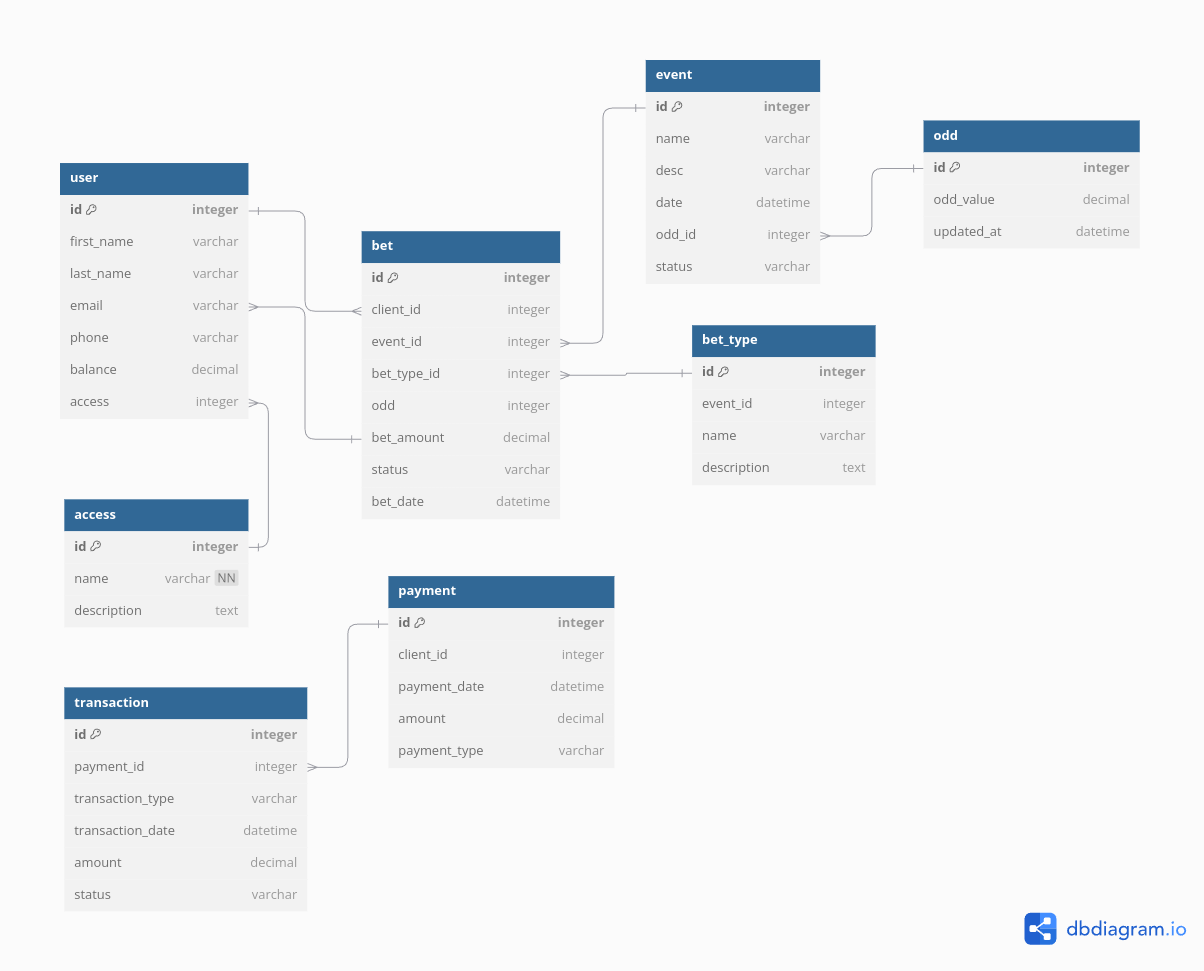
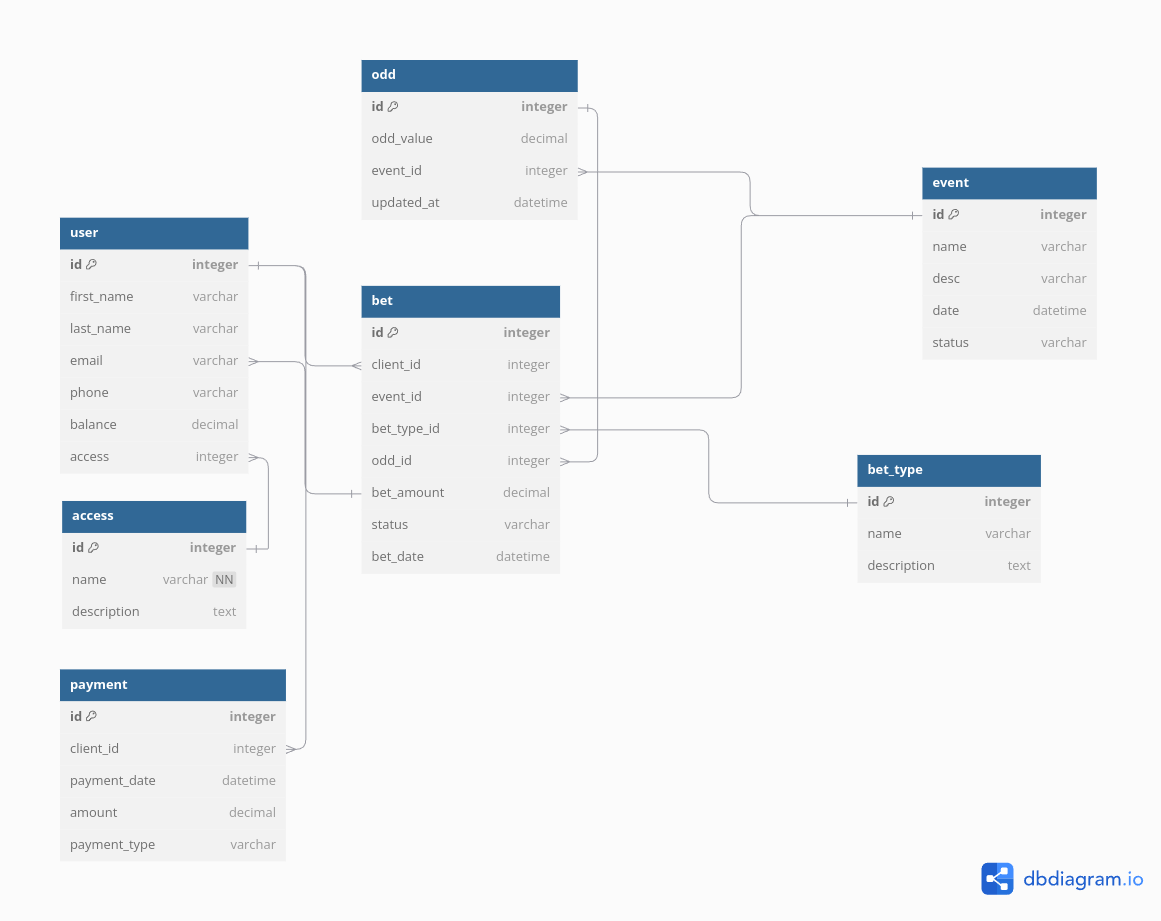
Add create table to migrations. Update readme

diff --git a/db/migrations/migrate.go b/db/migrations/migrate.go
@@ -16,13 +16,16 @@ func main() {
 	dbConn := db.ConnectDB() // Получаем соединение с базой данных
 	defer dbConn.Close()     // Закрываем соединение после завершения работы
 
-	// Миграция для таблицы users
+	// Миграция для таблицы user
 	_, err := dbConn.Exec(`
 	CREATE TABLE IF NOT EXISTS users (
 		id SERIAL PRIMARY KEY,
-		username VARCHAR(255) NOT NULL UNIQUE,
-		password VARCHAR(255) NOT NULL,
-		created_at TIMESTAMP DEFAULT NOW()
+		first_name VARCHAR(255),
+		last_name VARCHAR(255),
+		email VARCHAR(255) NOT NULL UNIQUE,
+		phone VARCHAR(50),
+		balance DECIMAL DEFAULT 0,
+		access INTEGER REFERENCES access(id)
 	);
 	`)
 	if err != nil {
@@ -36,39 +39,12 @@ func main() {
 		name VARCHAR(255) NOT NULL,
 		description TEXT,
 		date TIMESTAMP NOT NULL,
-		status VARCHAR(50)
+		status VARCHAR(50) -- e.g., pending, live, finished
 	);
 	`)
 	if err != nil {
 		log.Fatal("Migration for event failed:", err)
 	}
-
-	// Функция триггера для обновления статуса события
-	_, err = dbConn.Exec(`
-	CREATE OR REPLACE FUNCTION update_event_status()
-	RETURNS TRIGGER AS $update_event_status$
-	BEGIN
-		IF NEW.date < NOW() THEN
-			UPDATE event SET status = 'end' WHERE id = NEW.id;
-		END IF;
-		RETURN NEW;
-	END;
-	$update_event_status$ LANGUAGE plpgsql;
-	`)
-	if err != nil {
-		log.Fatal("Creating trigger function failed:", err)
-	}
-
-	// Создание триггера для обновления статуса события
-	// _, err = dbConn.Exec(`
-	// CREATE TRIGGER update_event_status
-	// AFTER UPDATE ON event
-	// FOR EACH ROW
-	// EXECUTE FUNCTION update_event_status();
-	// `)
-	// if err != nil {
-	// 	log.Fatal("Creating trigger failed:", err)
-	// }
 
 	// Миграция для таблицы access
 	_, err = dbConn.Exec(`
@@ -90,6 +66,74 @@ func main() {
 	`)
 	if err != nil {
 		log.Fatal("Inserting default access levels failed:", err)
+	}
+
+	// Миграция для таблицы bet_type
+	_, err = dbConn.Exec(`
+	CREATE TABLE IF NOT EXISTS bet_type (
+		id SERIAL PRIMARY KEY,
+		name VARCHAR(255), -- e.g., win, draw, lose, total over/under
+		description TEXT -- Description of the bet type
+	);
+	`)
+	if err != nil {
+		log.Fatal("Migration for bet_type failed:", err)
+	}
+
+	// Добавление пяти записей в bet_type
+	_, err = dbConn.Exec(`
+	INSERT INTO bet_type (name, description) VALUES
+	('win', 'Bet on the team to win'),
+	('draw', 'Bet on the match to end in a draw'),
+	('lose', 'Bet on the team to lose'),
+	('total over', 'Bet on the total score to be over a certain number'),
+	('total under', 'Bet on the total score to be under a certain number')
+	`)
+	if err != nil {
+		log.Fatal("Inserting default bet types failed:", err)
+	}
+	// Миграция для таблицы odd
+	_, err = dbConn.Exec(`
+	CREATE TABLE IF NOT EXISTS odd (
+		id SERIAL PRIMARY KEY,
+		odd_value DECIMAL, -- Value of the odd for the event
+		event_id INTEGER REFERENCES event(id),
+		updated_at TIMESTAMP -- When the odd were last updated
+	);
+	`)
+	if err != nil {
+		log.Fatal("Migration for odd failed:", err)
+	}
+
+	// Миграция для таблицы bet
+	_, err = dbConn.Exec(`
+	CREATE TABLE IF NOT EXISTS bet (
+		id SERIAL PRIMARY KEY,
+		client_id INTEGER REFERENCES users(id), -- Many bet to one client
+		event_id INTEGER REFERENCES event(id), -- Many bet to one event
+		bet_type_id INTEGER REFERENCES bet_type(id), -- Many bet to one bet type
+		odd_id INTEGER REFERENCES odd(id), 
+		bet_amount DECIMAL,
+		status VARCHAR(50), -- e.g., pending, won, lost
+		bet_date TIMESTAMP
+	);
+	`)
+	if err != nil {
+		log.Fatal("Migration for bet failed:", err)
+	}
+
+	// Миграция для таблицы payment
+	_, err = dbConn.Exec(`
+	CREATE TABLE IF NOT EXISTS payment (
+		id SERIAL PRIMARY KEY,
+		client_id INTEGER REFERENCES users(id),
+		payment_date TIMESTAMP,
+		amount DECIMAL,
+		payment_type VARCHAR(50) -- e.g., deposit, withdrawal
+	);
+	`)
+	if err != nil {
+		log.Fatal("Migration for payment failed:", err)
 	}
 
 	log.Println("Migrations completed successfully.")

diff --git a/README.md b/README.md
@@ -1,1 +1,11 @@
 # MaiBets
+
+# TODO
+- [ ] Добавить в миграции создание таблицы
+- [ ] На стороне базы данных необходимо определить представления, триггеры, функции и хранимые процедуры,
+    - [ ] Триггер на закрытие ивента, когда настает его время
+    - [ ] Триггер на закрытие ставки, когда ивент закрывается и рассет стаки
+    - [ ] Триггер на удаление кефов, когда ивент закрывается
+- [ ] Добавление ивентов (рандом длительность)
+- [ ] При добавлении ивентов рандомно генерируются кефы
+- [ ] Добавить документацию для API
